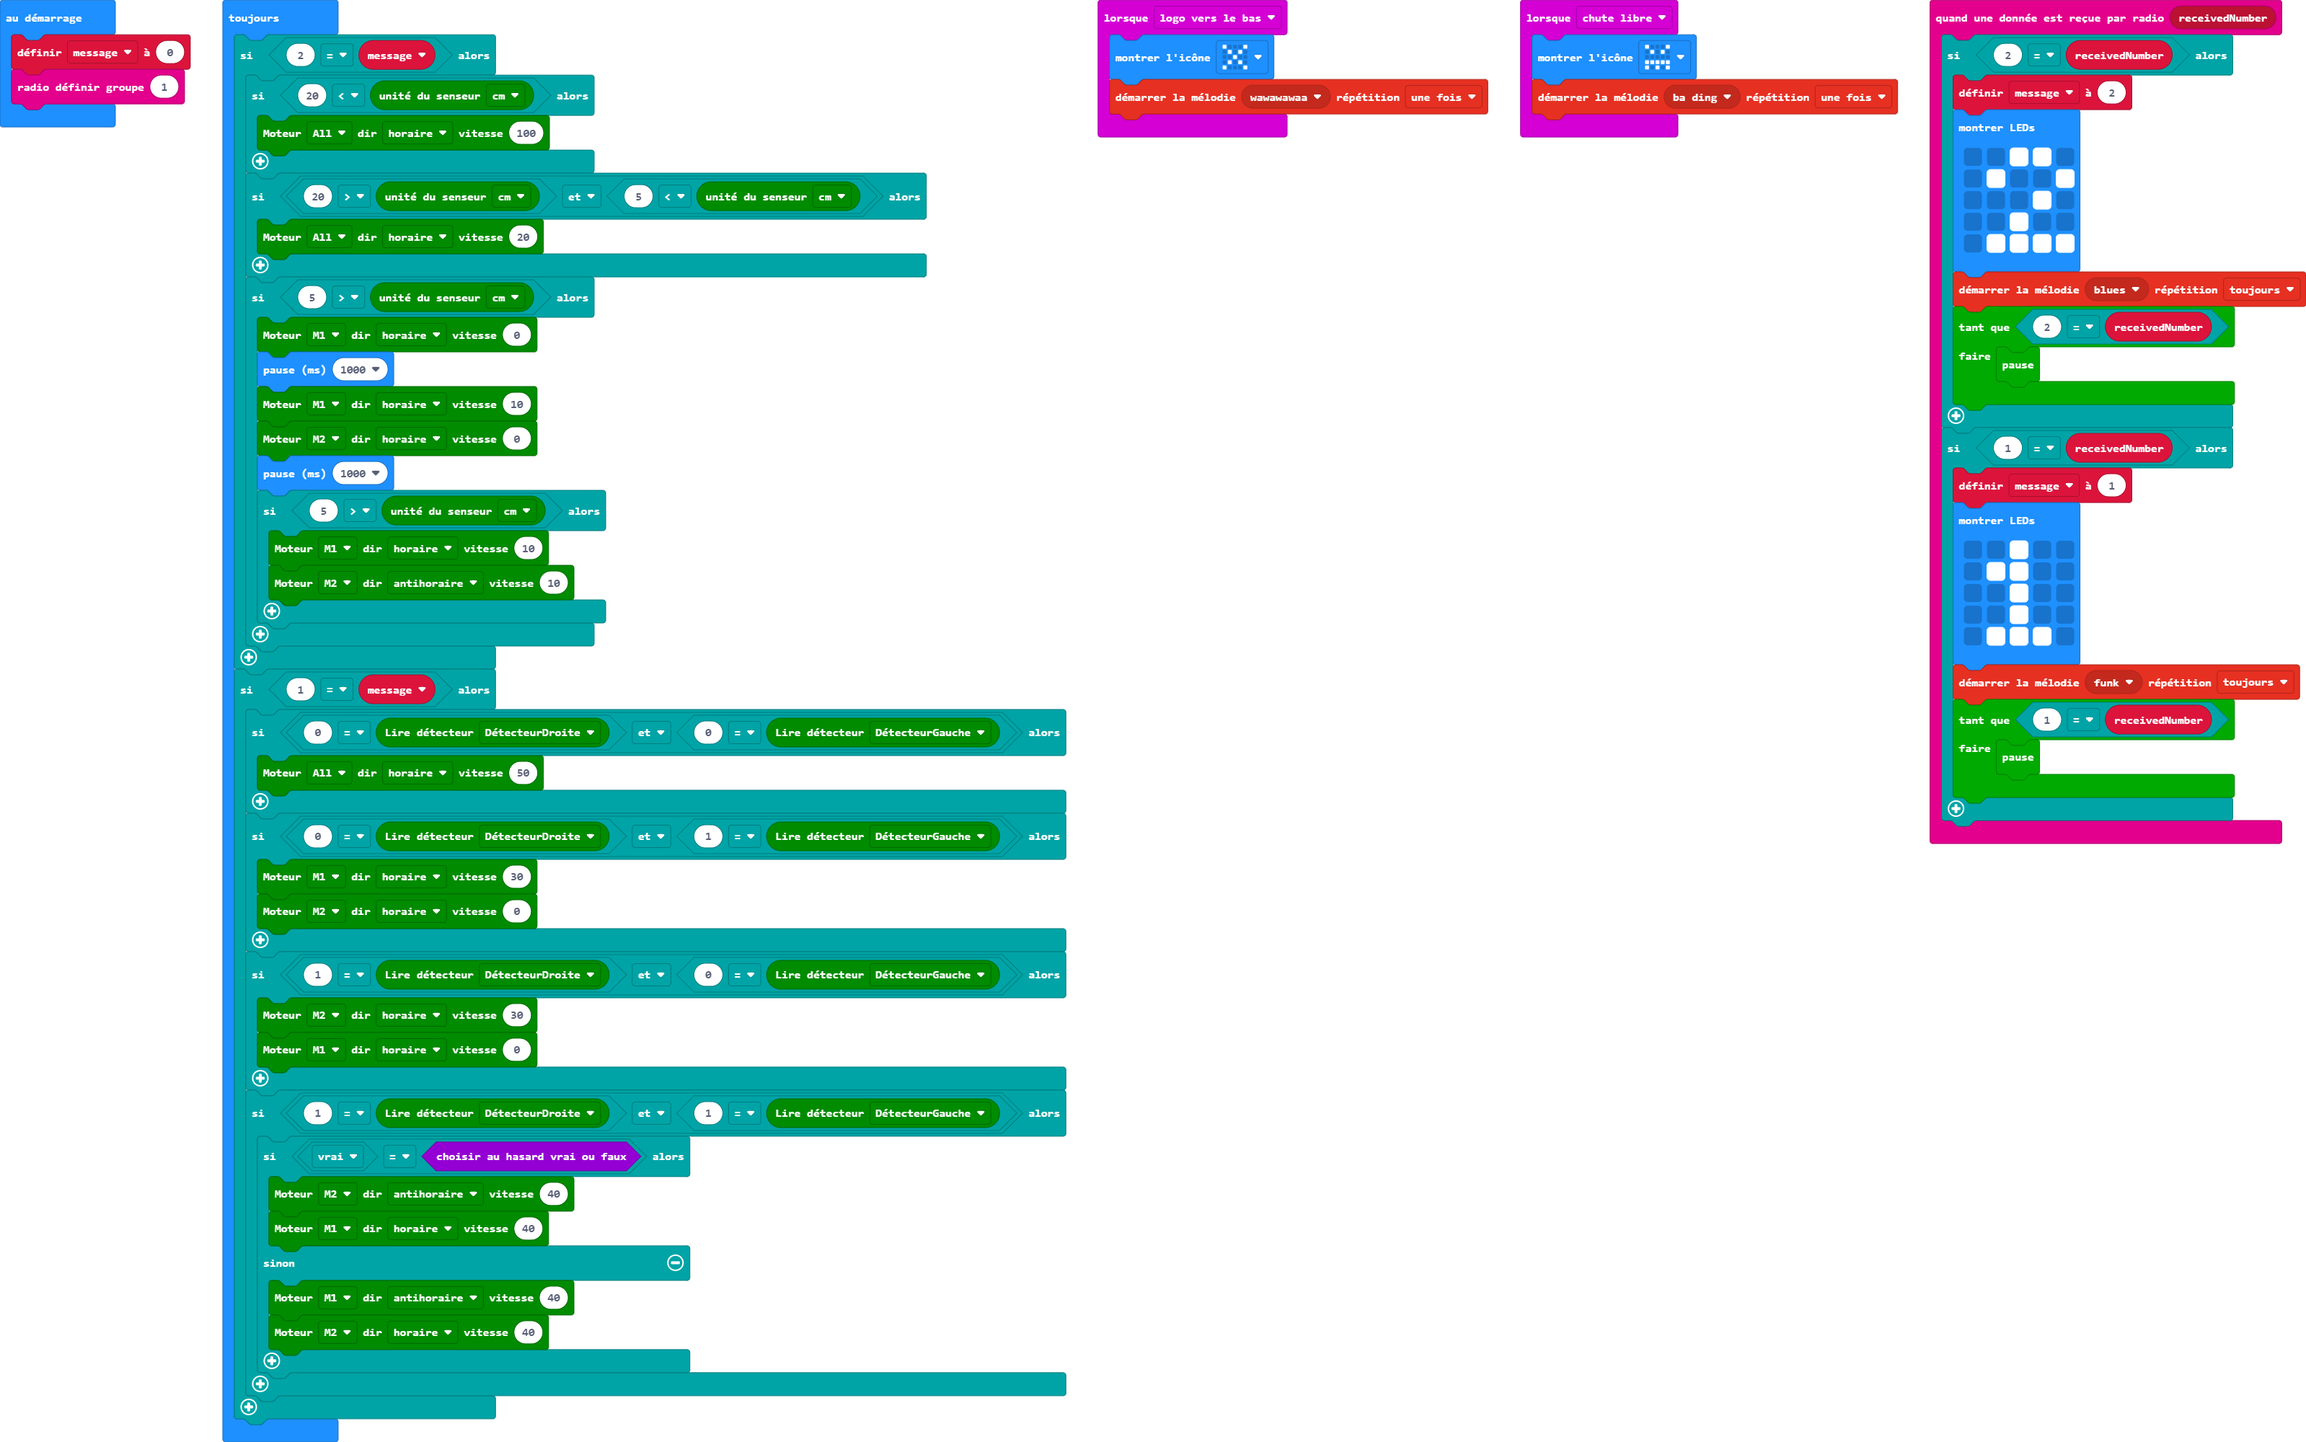
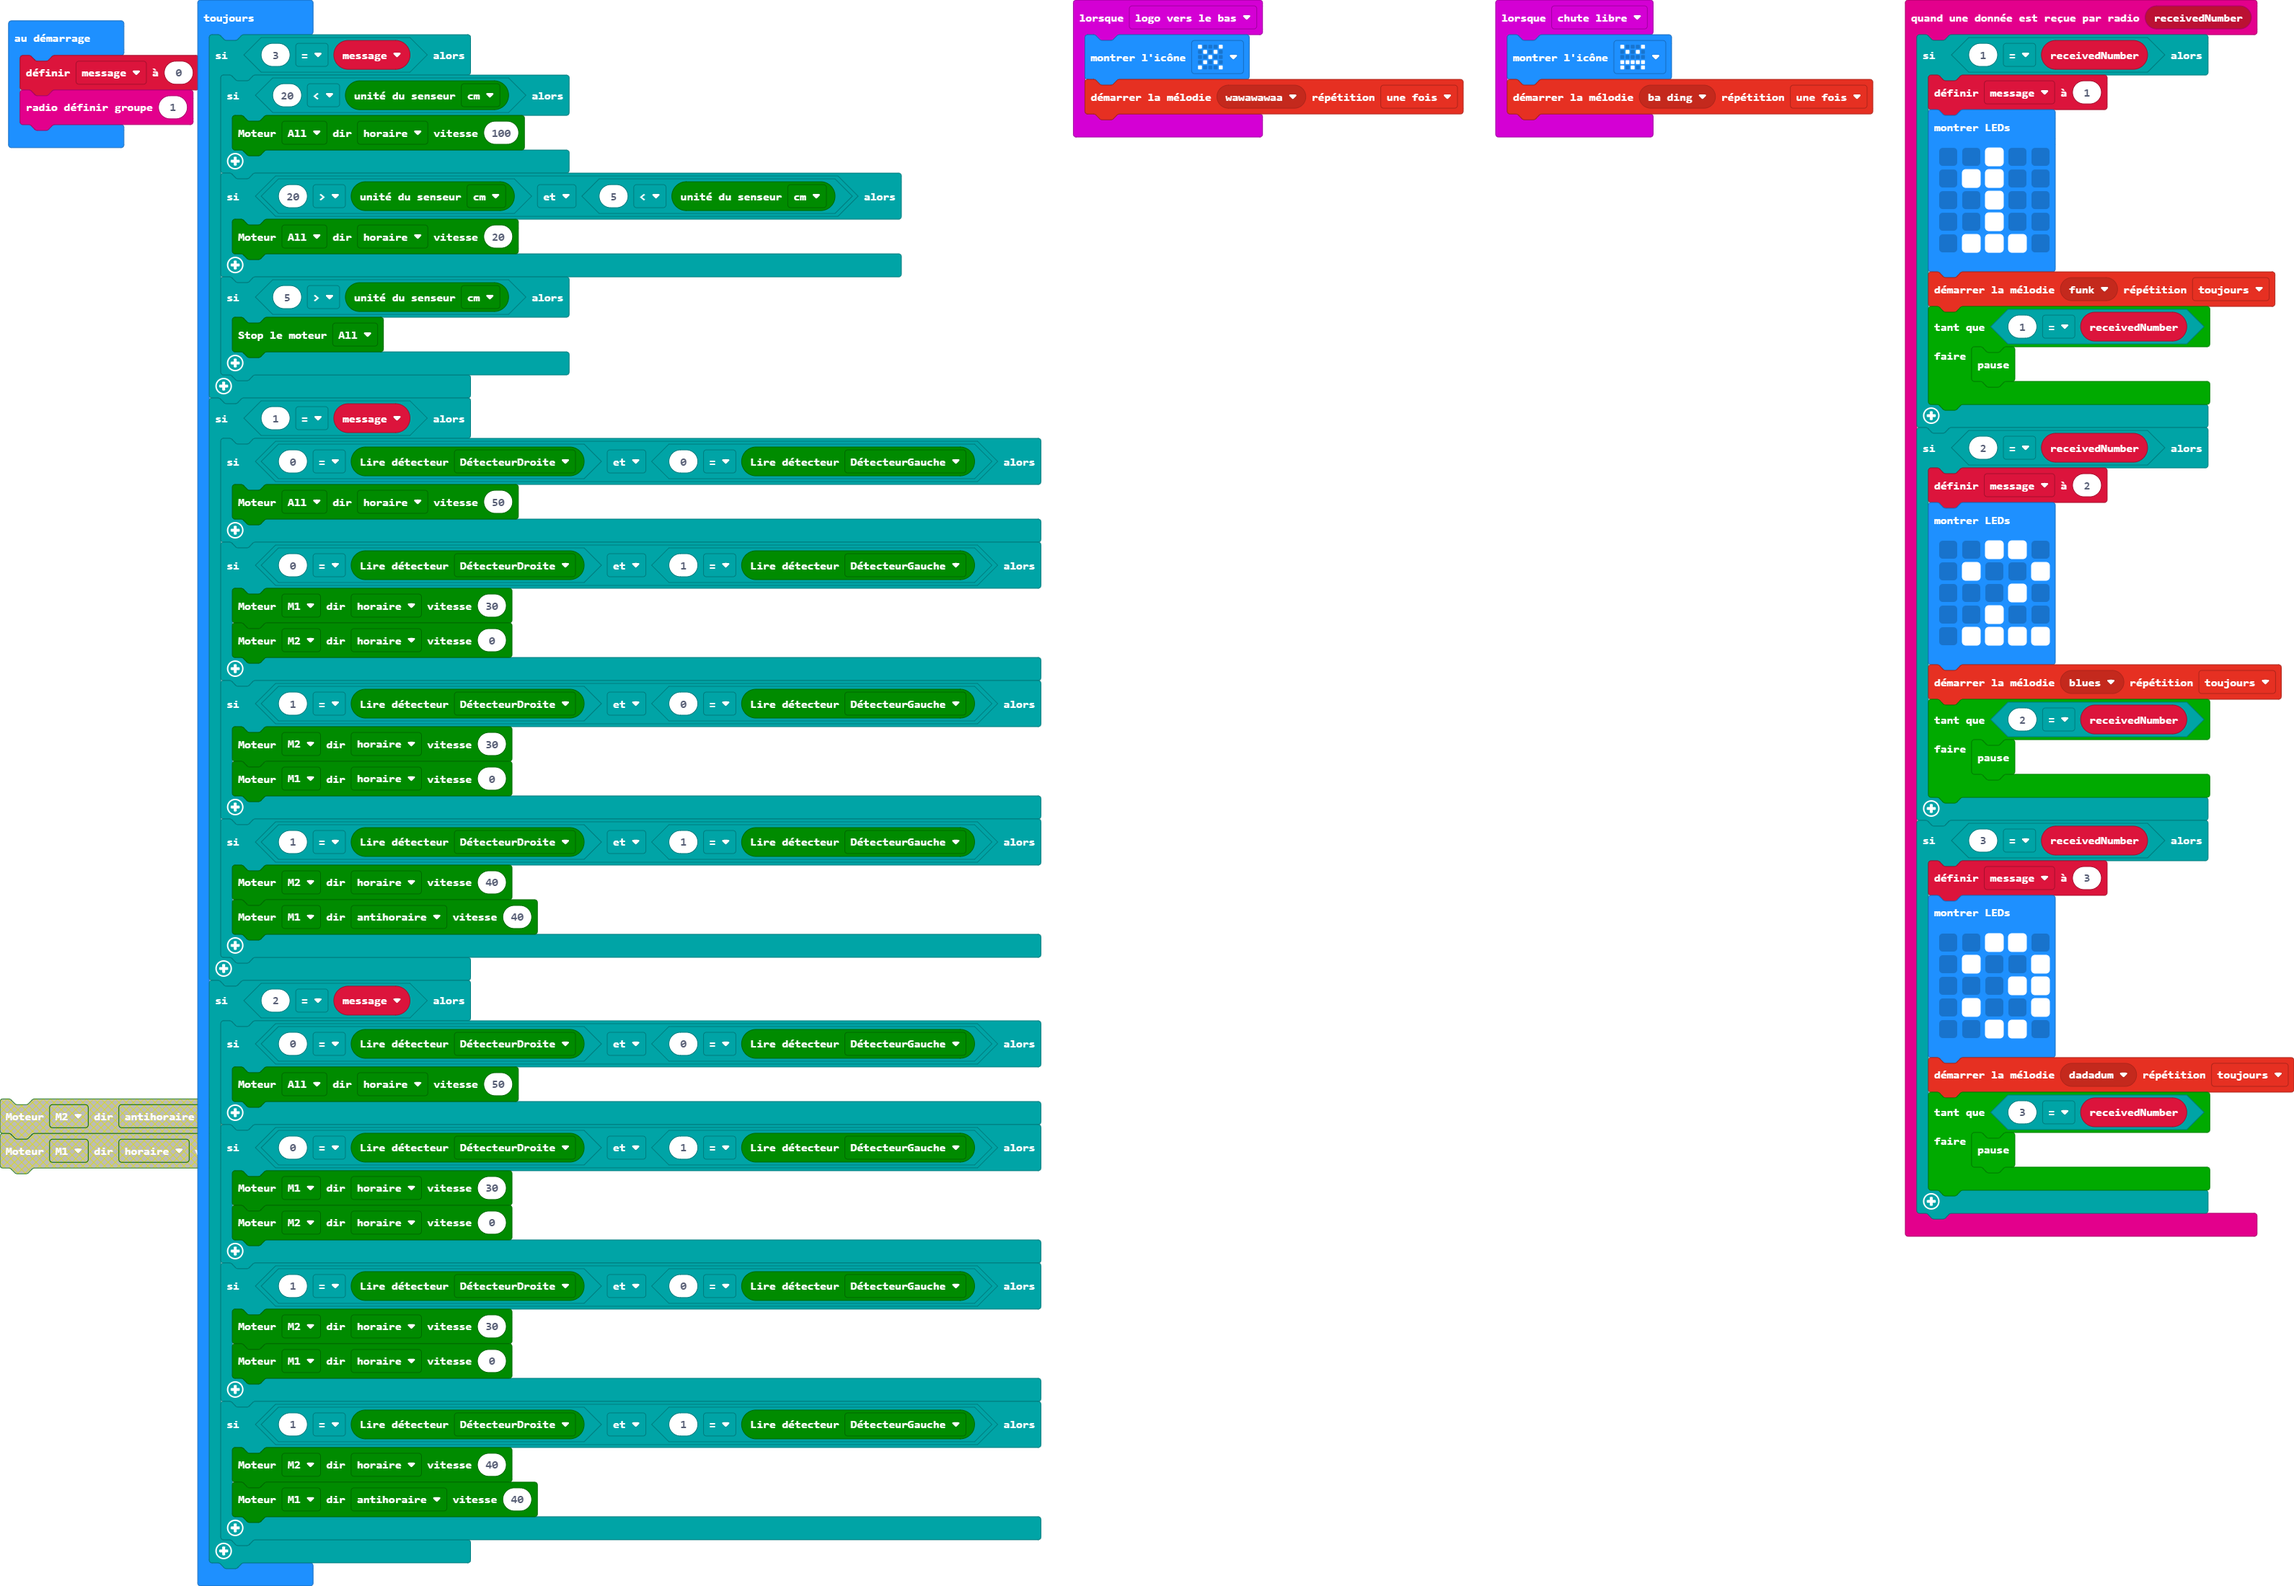
Mise à jour main.blocks, main.ts

diff --git a/main.ts b/main.ts
@@ -1,4 +1,18 @@
 radio.onReceivedNumber(function (receivedNumber) {
+    if (1 == receivedNumber) {
+        message = 1
+        basic.showLeds(`
+            . . # . .
+            . # # . .
+            . . # . .
+            . . # . .
+            . # # # .
+            `)
+        music.startMelody(music.builtInMelody(Melodies.Funk), MelodyOptions.Forever)
+        while (1 == receivedNumber) {
+            break;
+        }
+    }
     if (2 == receivedNumber) {
         message = 2
         basic.showLeds(`
@@ -13,17 +27,17 @@ radio.onReceivedNumber(function (receivedNumber) {
             break;
         }
     }
-    if (1 == receivedNumber) {
-        message = 1
+    if (3 == receivedNumber) {
+        message = 3
         basic.showLeds(`
-            . . # . .
-            . # # . .
-            . . # . .
-            . . # . .
-            . # # # .
+            . . # # .
+            . # . . #
+            . . . # #
+            . # . . #
+            . . # # .
             `)
-        music.startMelody(music.builtInMelody(Melodies.Funk), MelodyOptions.Forever)
-        while (1 == receivedNumber) {
+        music.startMelody(music.builtInMelody(Melodies.Dadadadum), MelodyOptions.Forever)
+        while (3 == receivedNumber) {
             break;
         }
     }
@@ -40,7 +54,7 @@ let message = 0
 message = 0
 radio.setGroup(1)
 basic.forever(function () {
-    if (2 == message) {
+    if (3 == message) {
         if (20 < maqueen.Ultrasonic(PingUnit.Centimeters)) {
             maqueen.motorRun(maqueen.Motors.All, maqueen.Dir.CW, 100)
         }
@@ -48,15 +62,7 @@ basic.forever(function () {
             maqueen.motorRun(maqueen.Motors.All, maqueen.Dir.CW, 20)
         }
         if (5 > maqueen.Ultrasonic(PingUnit.Centimeters)) {
-            maqueen.motorRun(maqueen.Motors.M1, maqueen.Dir.CW, 0)
-            basic.pause(1000)
-            maqueen.motorRun(maqueen.Motors.M1, maqueen.Dir.CW, 10)
-            maqueen.motorRun(maqueen.Motors.M2, maqueen.Dir.CW, 0)
-            basic.pause(1000)
-            if (5 > maqueen.Ultrasonic(PingUnit.Centimeters)) {
-                maqueen.motorRun(maqueen.Motors.M1, maqueen.Dir.CW, 10)
-                maqueen.motorRun(maqueen.Motors.M2, maqueen.Dir.CCW, 10)
-            }
+            maqueen.motorStop(maqueen.Motors.All)
         }
     }
     if (1 == message) {
@@ -72,13 +78,25 @@ basic.forever(function () {
             maqueen.motorRun(maqueen.Motors.M1, maqueen.Dir.CW, 0)
         }
         if (1 == maqueen.readPatrol(maqueen.Patrol.PatrolRight) && 1 == maqueen.readPatrol(maqueen.Patrol.PatrolLeft)) {
-            if (true == Math.randomBoolean()) {
-                maqueen.motorRun(maqueen.Motors.M2, maqueen.Dir.CCW, 40)
-                maqueen.motorRun(maqueen.Motors.M1, maqueen.Dir.CW, 40)
-            } else {
-                maqueen.motorRun(maqueen.Motors.M1, maqueen.Dir.CCW, 40)
-                maqueen.motorRun(maqueen.Motors.M2, maqueen.Dir.CW, 40)
-            }
+            maqueen.motorRun(maqueen.Motors.M2, maqueen.Dir.CW, 40)
+            maqueen.motorRun(maqueen.Motors.M1, maqueen.Dir.CCW, 40)
+        }
+    }
+    if (2 == message) {
+        if (0 == maqueen.readPatrol(maqueen.Patrol.PatrolRight) && 0 == maqueen.readPatrol(maqueen.Patrol.PatrolLeft)) {
+            maqueen.motorRun(maqueen.Motors.All, maqueen.Dir.CW, 50)
+        }
+        if (0 == maqueen.readPatrol(maqueen.Patrol.PatrolRight) && 1 == maqueen.readPatrol(maqueen.Patrol.PatrolLeft)) {
+            maqueen.motorRun(maqueen.Motors.M1, maqueen.Dir.CW, 30)
+            maqueen.motorRun(maqueen.Motors.M2, maqueen.Dir.CW, 0)
+        }
+        if (1 == maqueen.readPatrol(maqueen.Patrol.PatrolRight) && 0 == maqueen.readPatrol(maqueen.Patrol.PatrolLeft)) {
+            maqueen.motorRun(maqueen.Motors.M2, maqueen.Dir.CW, 30)
+            maqueen.motorRun(maqueen.Motors.M1, maqueen.Dir.CW, 0)
+        }
+        if (1 == maqueen.readPatrol(maqueen.Patrol.PatrolRight) && 1 == maqueen.readPatrol(maqueen.Patrol.PatrolLeft)) {
+            maqueen.motorRun(maqueen.Motors.M2, maqueen.Dir.CW, 40)
+            maqueen.motorRun(maqueen.Motors.M1, maqueen.Dir.CCW, 40)
         }
     }
 })
